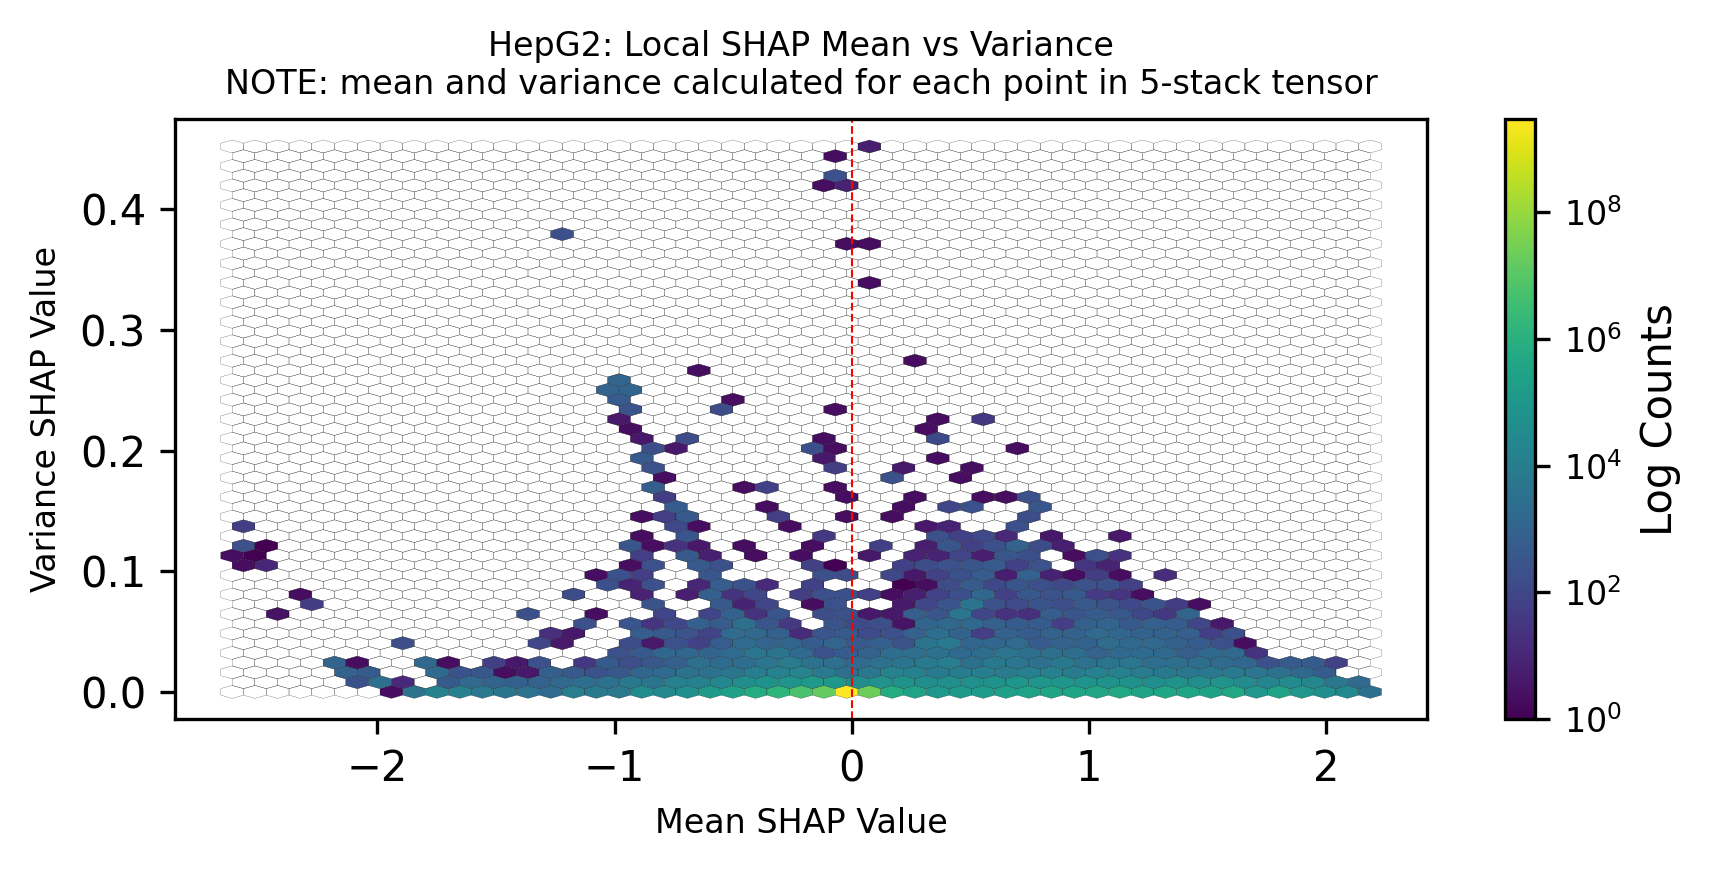
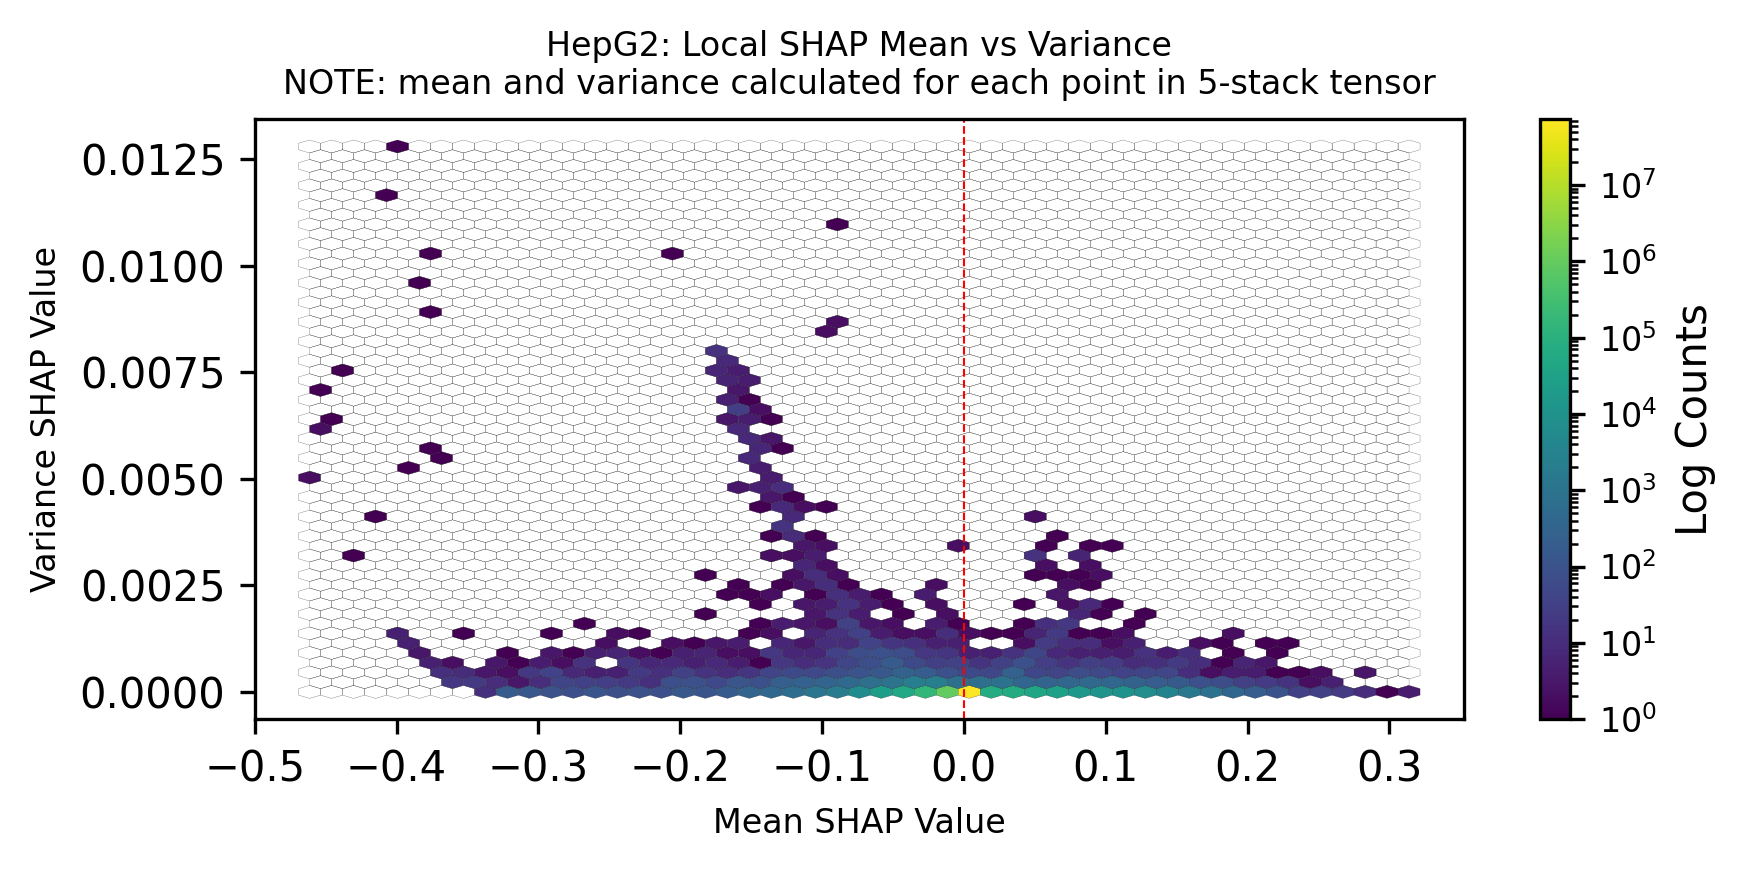
re-do mean vs variance calculations for local SHAP

diff --git a/analysis/6_SHAP_network_analysis/code/1_shap_network_analyzer.py b/analysis/6_SHAP_network_analysis/code/1_shap_network_analyzer.py
@@ -1535,7 +1535,7 @@ class ShapNetworkInvestigator:
 
 
     def calculate_local_SHAP_mean_vs_variance_deciles(self, mode=None):
-        assert mode in ["Bound-Only", "NOT-Bound-Only", '5_dfs_average'], "mode should be either 'Bound-Only' or 'NOT-Bound-Only'"
+        assert mode in ["Bound-Only", "NOT-Bound-Only"], "mode should be either 'Bound-Only' or 'NOT-Bound-Only'"
 
         # Check if the local SHAP mean vs variance deciles TSV file exists
         output_file = self.CACHE_INFO["local_SHAP_mean_vs_variance_deciles"][mode]
@@ -1549,101 +1549,34 @@ class ShapNetworkInvestigator:
             logger.info(f"Local SHAP mean vs variance deciles not calculated. Computing for {mode} ...")
 
             all_deciles = []
-            # If mode is Bound-Only or NOT-Bound-Only, retrieve local_shap once outside the loop
-            if mode in ["Bound-Only", "NOT-Bound-Only"]:
-                binding_value = 1 if mode == "Bound-Only" else 0
-                local_shap = self.get_local_SHAP_based_on_binding_and_covariates(binding_value)
-            else:
-                local_shap = None
+            local_shap = self.get_local_SHAP_based_on_binding_and_covariates(
+                binding_value = 1 if mode == "Bound-Only" else 0,
+                binding_pattern_type = "Unique-Binding"
+            )
 
+            # Collect all local SHAP values per cell line
+            cell_line_shap_values = {cell_line: [] for cell_line in self.cell_lines}
+            for cell_line, shap_col, series in local_shap:
+                # Concatenate all values for this cell line
+                cell_line_shap_values[cell_line].append(series.abs().to_numpy())
+
+            # For each cell line, concatenate all arrays and compute deciles
             for cell_line in self.cell_lines:
-                logger.info(f"Generating mean vs variance deciles for cell line {cell_line}")
+                all_values = np.concatenate(cell_line_shap_values[cell_line])
+                percentiles = np.arange(0, 101, 11)
+                decile_values = np.percentile(all_values, percentiles)
+                for perc, val in zip(percentiles, decile_values):
+                    all_deciles.append({
+                        "Cell Line": cell_line,
+                        "Percentile": perc,
+                        "Value": val
+                    })
 
-                if mode == '5_dfs_average':
-                    # Retrieve the 5 SHAP DataFrames for the cell line
-                    shap_dfs = self.retrieve_5_SHAP_tables_per_cell_line(cell_line, binding_unique="All-Data")
-                    # get absolute value of all columns in each df in shap_dfs except for index which is not a numerical column
-                    shap_dfs = [
-                        df.select(
-                            [pl.col(col).abs() if col != 'index' else pl.col(col) for col in shap_dfs[0].columns]
-                        )
-                        for df in shap_dfs
-                    ]
-
-                    # Assert that all SHAP DataFrames have the same shape and ordering
-                    assert all(df.shape == shap_dfs[0].shape for df in shap_dfs), "SHAP DataFrames have inconsistent dimensions"
-                    assert all(df.columns == shap_dfs[0].columns for df in shap_dfs), "Column ordering mismatch in SHAP DataFrames"
-
-                    # Calculate mean and variance using the pointwise SHAP metric function
-                    mean_df = self.calculate_pointwise_SHAP_metric_per_cell_line(
-                        cell_line_shap=shap_dfs, 
-                        metric='mean'
-                    )
-                    variance_df = self.calculate_pointwise_SHAP_metric_per_cell_line(
-                        cell_line_shap=shap_dfs, 
-                        metric='variance'
-                    )
-
-                    # Flatten the mean and variance DataFrames for plotting
-                    mean_values = mean_df.to_numpy().flatten()
-                    variance_values = variance_df.to_numpy().flatten()
-
-                    # Calculate deciles for both mean and variance (0th to 100th percentile, step 10)
-                    mean_deciles = np.percentile(mean_values, np.arange(0, 101, 10))
-                    variance_deciles = np.percentile(variance_values, np.arange(0, 101, 10))
-                    mean_median = np.median(mean_values)
-                    variance_median = np.median(variance_values)
-
-                    del mean_df, variance_df, shap_dfs
-                    gc.collect()
-
-                elif mode in ["Bound-Only", "NOT-Bound-Only"]:
-                    # local_shap[cell_line] is a dict: {shap_col: series}
-                    # Concatenate all series into a single 1D numpy array, take absolute value
-                    all_values = np.concatenate([s.to_numpy() for s in local_shap[cell_line].values()])
-
-                    if mode == "Bound-Only":
-                        all_values = all_values[~np.isnan(all_values)]
-
-                    all_values = np.abs(all_values)
-                    # Compute deciles and median of the distribution
-                    mean_deciles = np.percentile(all_values, np.arange(0, 101, 10))
-                    mean_median = np.median(all_values)
-                    variance_deciles = None
-                    variance_median = None
-                
-                if mode == 'Not-Bound-Only' or mode == '5_dfs_average': 
-                    assert not np.isnan(mean_values).any(), "Mean values contain NaN or missing values"
-                
-                if mode == '5_dfs_average':
-                    assert not np.isnan(variance_values).any(), "Variance values contain NaN or missing values"
-
-                # Prepare the table: each row is a decile edge, with corresponding mean and variance value
-                if mode == '5_dfs_average':
-                    for i, (mean_edge, var_edge) in enumerate(zip(mean_deciles, variance_deciles)):
-                        all_deciles.append({
-                            "Cell Line": cell_line,
-                            "Decile": f"{i*10}th" if i not in [0, len(mean_deciles)-1] else ("min" if i == 0 else "max"),
-                            "Local SHAP Mean Value": mean_edge,
-                            "Local SHAP Variance Value": var_edge,
-                            "Local SHAP Mean Median": mean_median if i == 5 else np.nan,
-                            "Local SHAP Variance Median": variance_median if i == 5 else np.nan,
-                        })
-                else:
-                    for i, mean_edge in enumerate(mean_deciles):
-                        all_deciles.append({
-                            "Cell Line": cell_line,
-                            "Decile": f"{i*10}th" if i not in [0, len(mean_deciles)-1] else ("min" if i == 0 else "max"),
-                            "Local SHAP Mean Value": mean_edge,
-                            "Local SHAP Variance Value": np.nan,
-                            "Local SHAP Mean Median": mean_median if i == 5 else np.nan,
-                            "Local SHAP Variance Median": np.nan,
-                        })
-
-            # Convert to DataFrame and save as TSV
-            decile_df = pd.DataFrame(all_deciles).sort_values(by=["Cell Line", "Decile"])
+            # Save as DataFrame and TSV
+            decile_df = pd.DataFrame(all_deciles)
             decile_df.to_csv(output_file, sep="\t", index=False)
-            logger.success(f"Saved mean vs variance deciles table for all cell lines to {output_file}")
+
+            logger.success(f"Saved local SHAP mean vs variance deciles for mode {mode} to {output_file}")
 
 
     def load_elasticnet_coefficients(self): 
